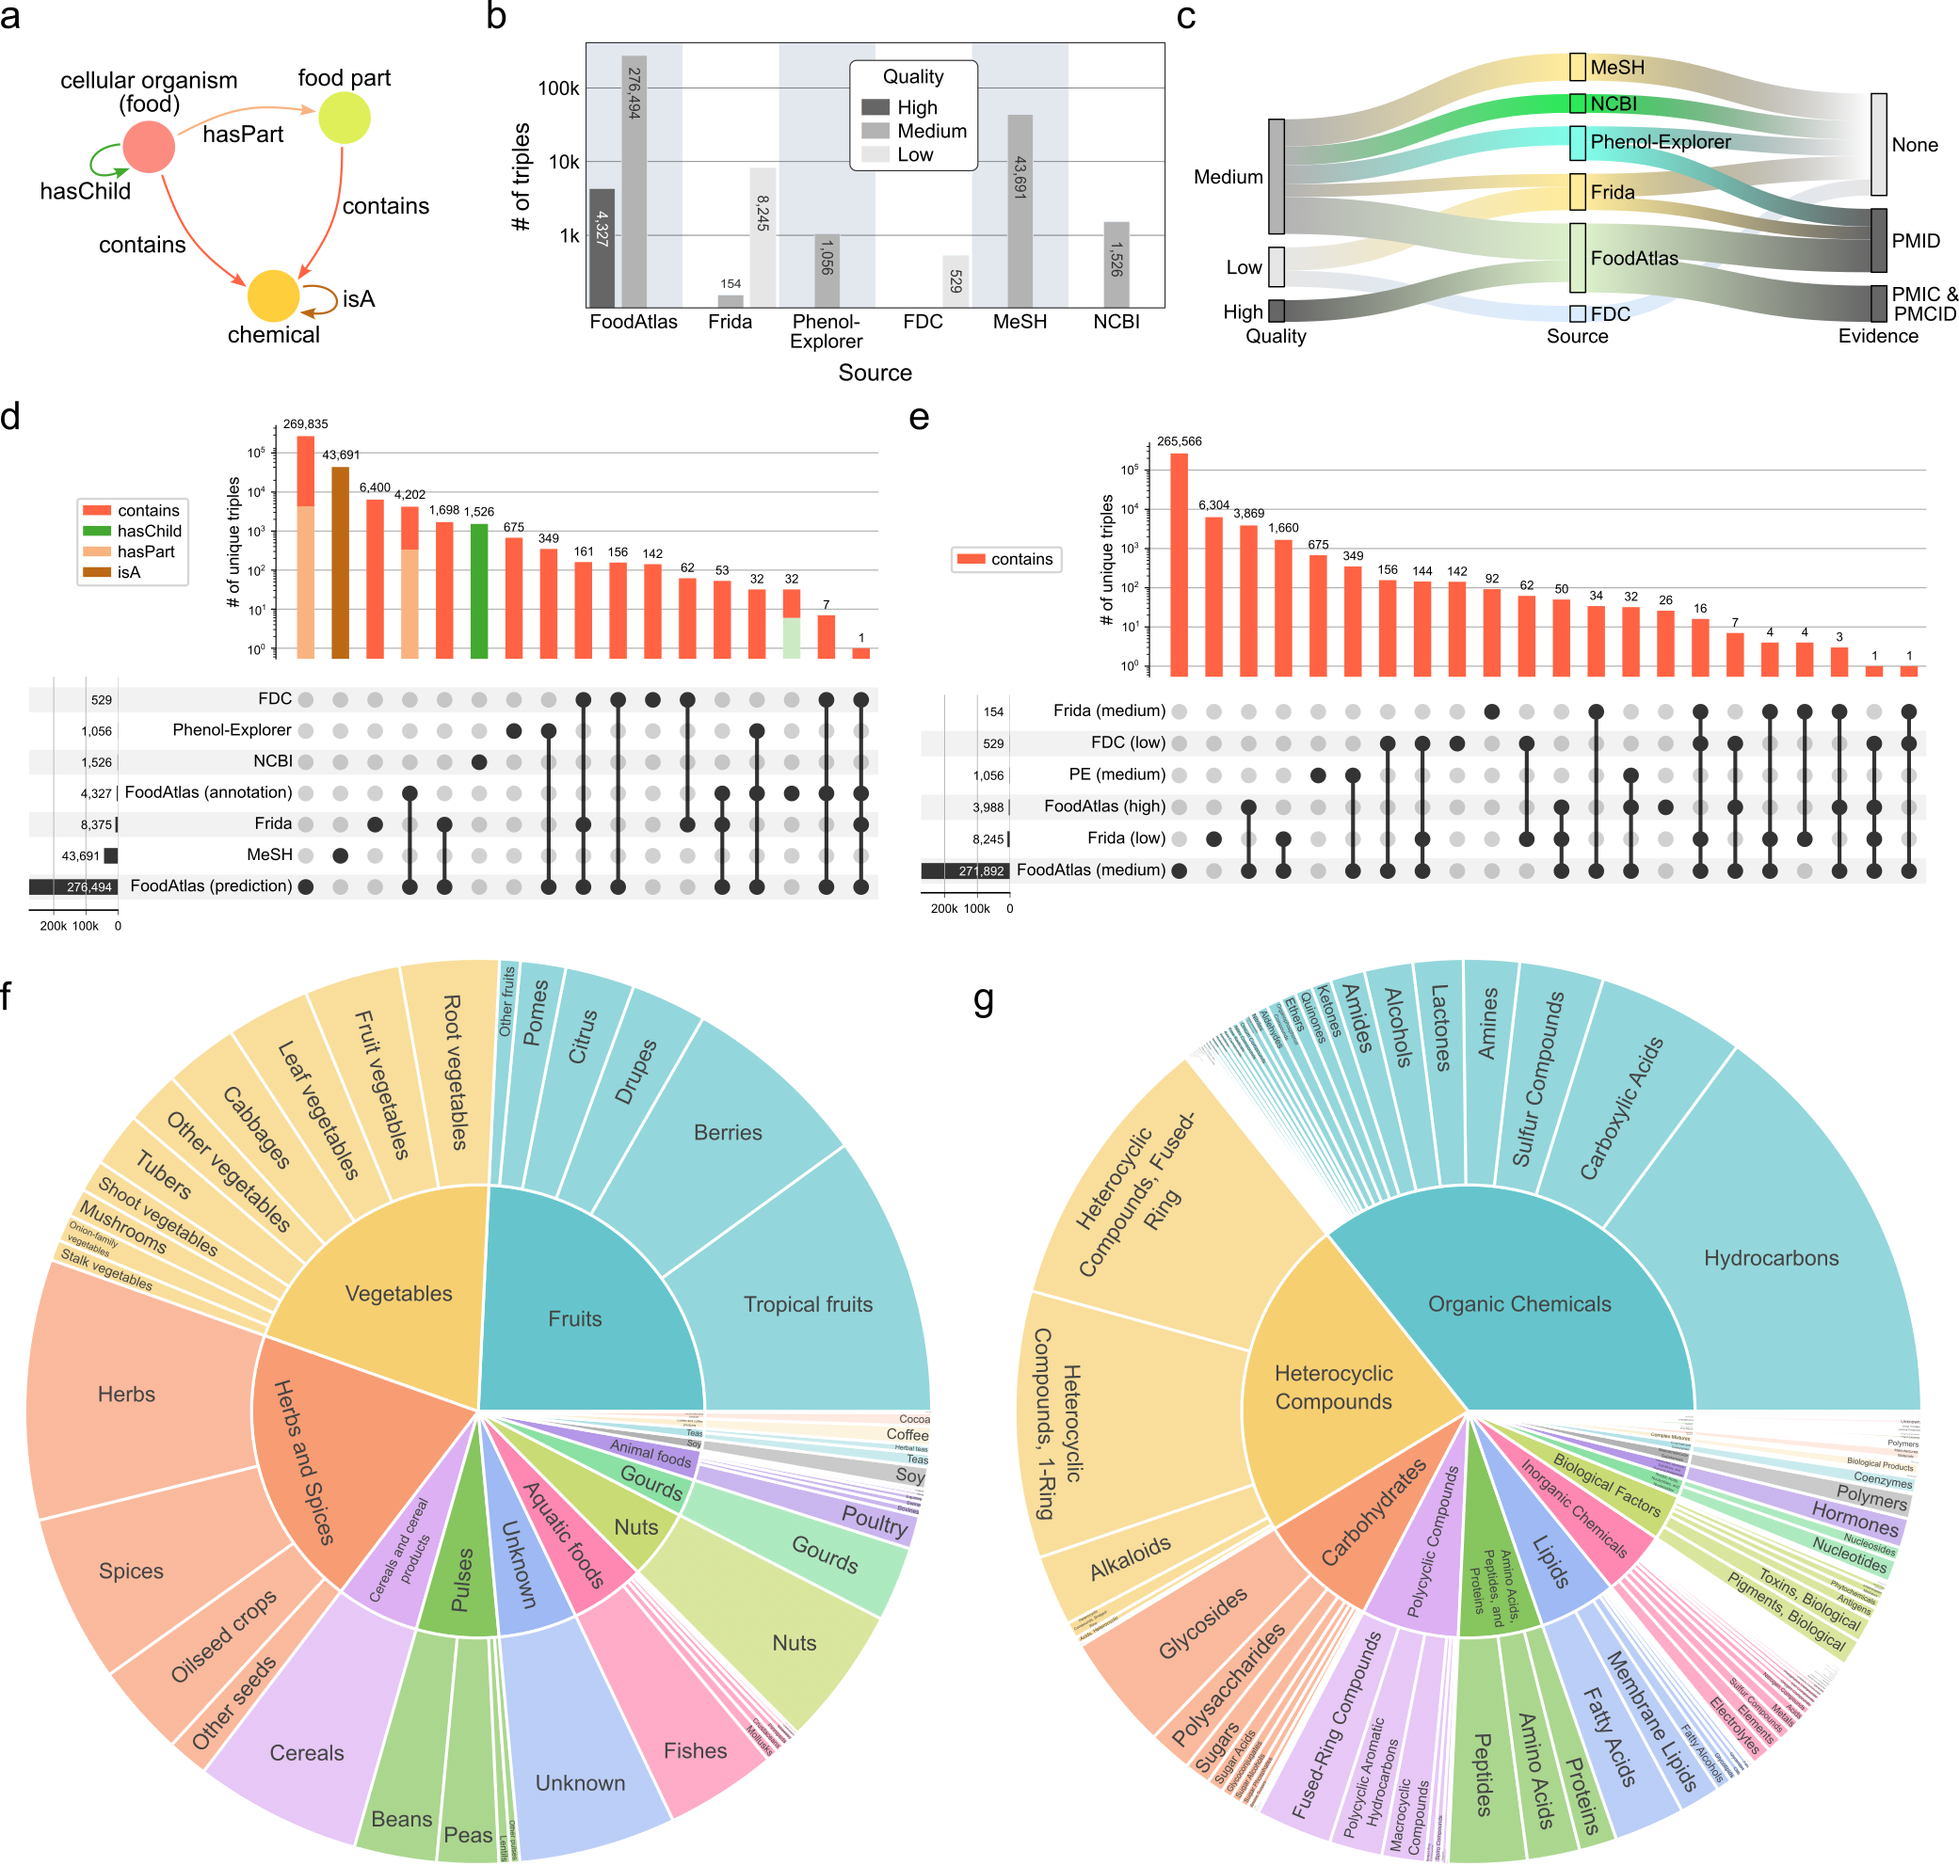
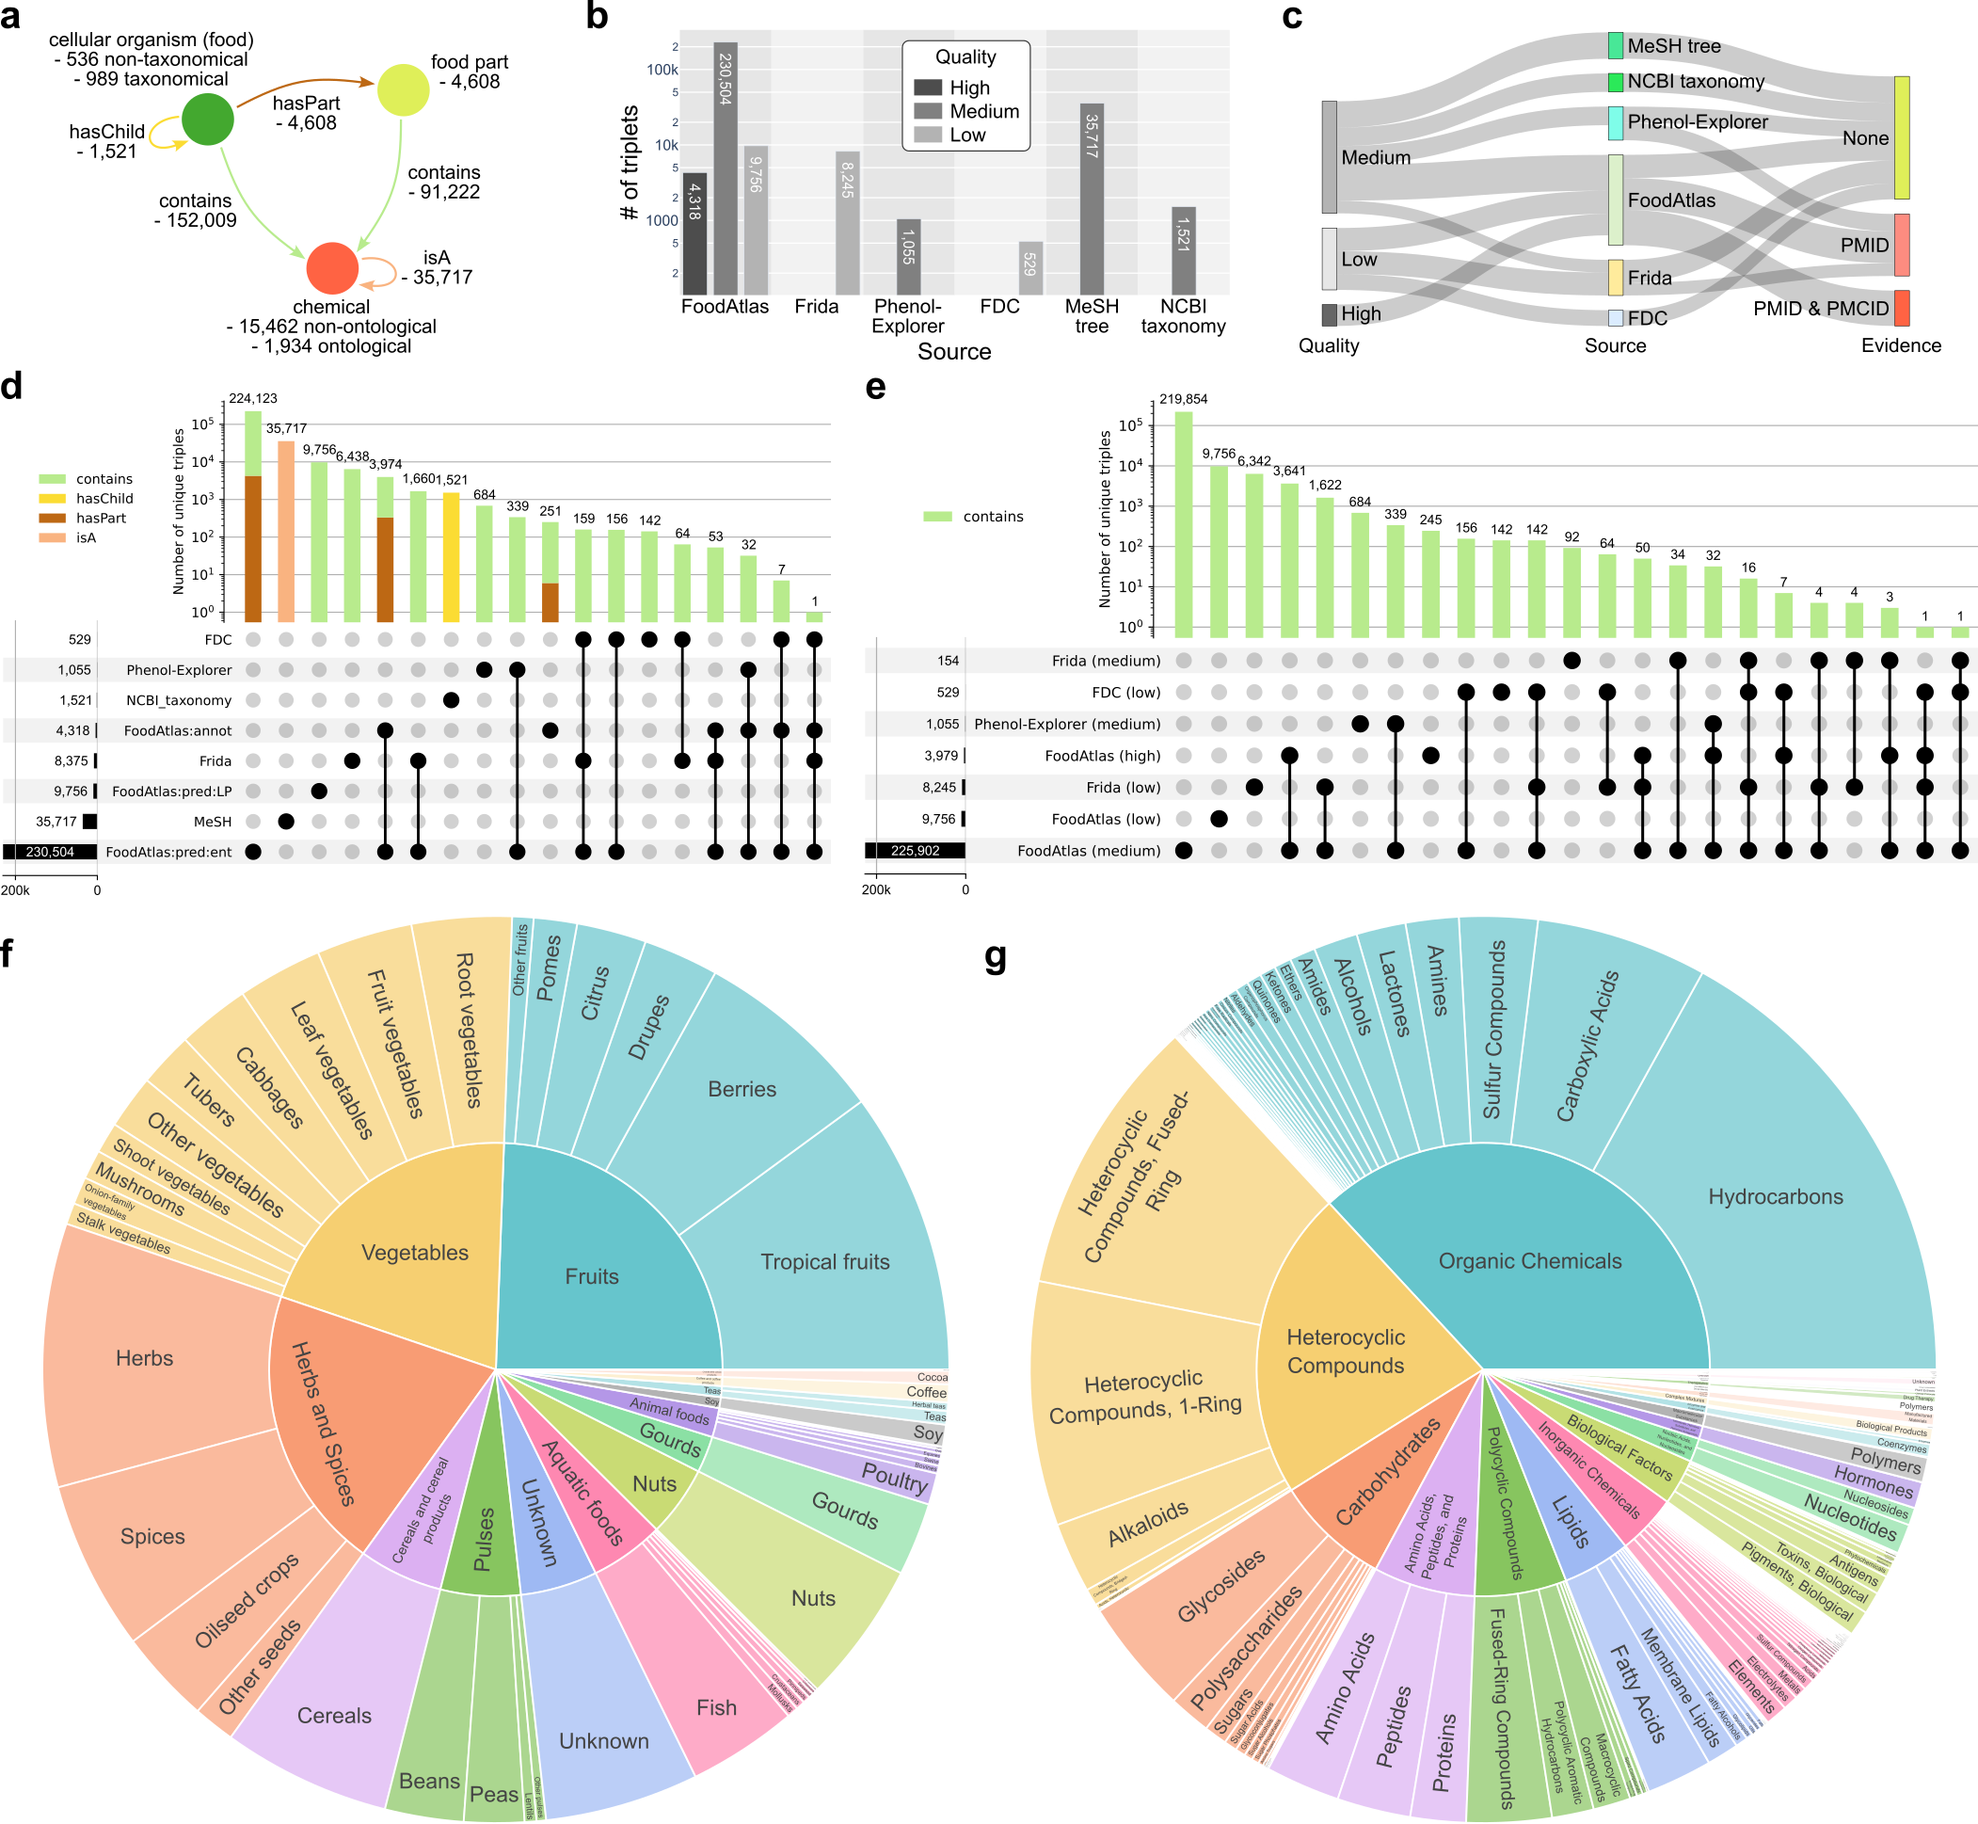
updated README's figure3 and statistics

diff --git a/README.md b/README.md
@@ -6,9 +6,9 @@
 ## Overview
 
 ### Introduction
-We present a semi-automated framework for extracting food-chemical relationships from scientific literature using deep learning-based language models, and in turn, constructing a quality-controlled FoodAtlas knowledge graph regarding food composition (Figure 1). We tested 4 different active learning strategies and found that selecting samples that maximize the likelihood leads to discovering new knowledge 38.2% faster than the random sampling baseline. The entailment models achieved an average of 0.82 precision, 0,84 recall, and 0.83 F1 score in extracting the food-chemical relations from the premise in the final round of active learning, with the predicted probabilities being highly correlated to the ground-truth annotations ($R^2$ = 0.94). The FoodAtlas KG with 329,022 triples integrates knowledge from the entailment model pipeline, multiple external databases, as well as taxonomical and ontological relationships of foods and chemicals, respectively.
+We present a semi-automated framework for extracting food-chemical relationships from scientific literature using deep learning-based language models, and in turn, constructing a quality-controlled FoodAtlas knowledge graph regarding food composition (Figure 1). We tested 4 different active learning strategies and found that selecting samples that maximize the likelihood leads to discovering new knowledge 38.2% faster than the random sampling baseline. The entailment models achieved an average of 0.82 precision, 0,84 recall, and 0.83 F1 score in extracting the food-chemical relations from the premise in the final round of active learning, with the predicted probabilities being highly correlated to the ground-truth annotations ($R^2$ = 0.94). The FoodAtlas KG with 291,775 triples integrates knowledge from the entailment model pipeline, link prediction, multiple external databases, as well as taxonomical and ontological relationships of foods and chemicals, respectively.
 
-We are actively working on developing the [*FoodAtlas website*](https://www.foodatlas.ai/) where you can access all of our data (coming soon in April, 2023; pending review). Please check back later for updates.
+We are actively working on developing the [*FoodAtlas website*](https://www.foodatlas.ai/) where you can access all of our data.
 
 *Figure 1. Overview of the FoodAtlas framework.*
 ![Figure 1](./figures/Figure1.png)
